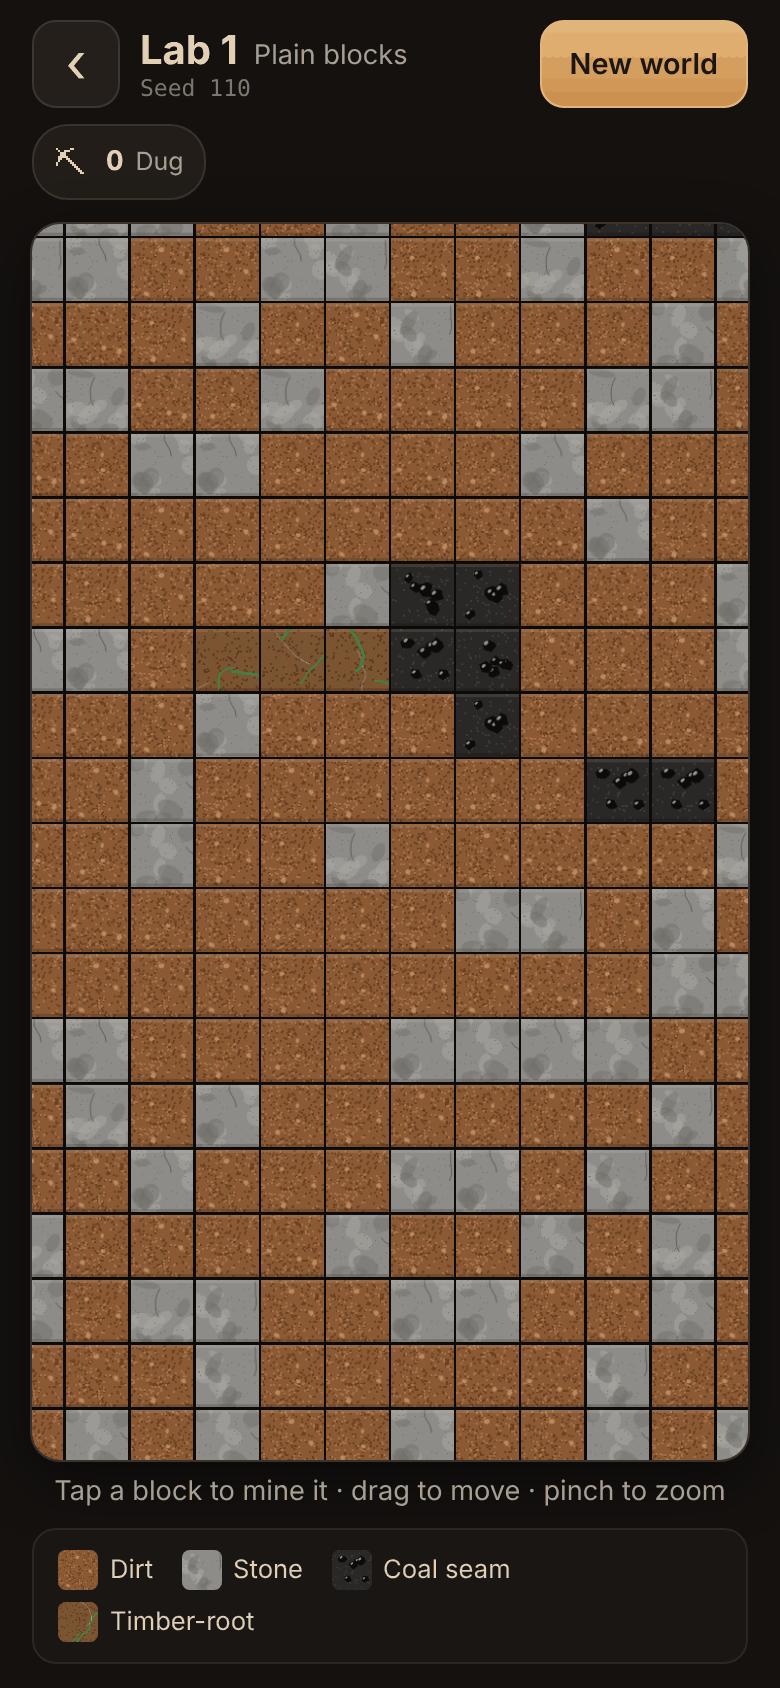
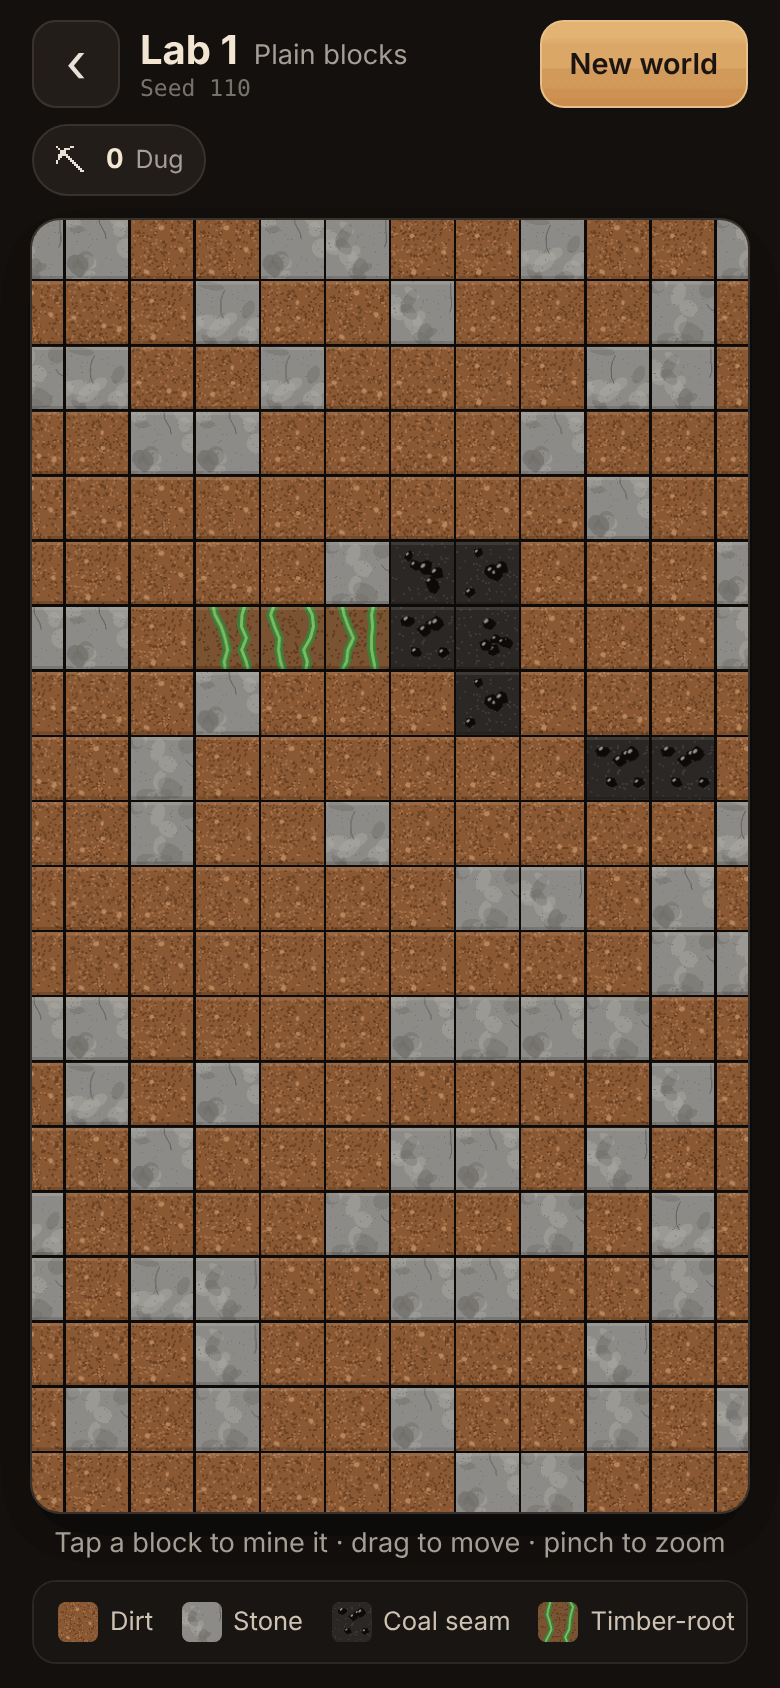
UI lab 1: keep the map still while the counter fills (review of #117)
- The counter and the key are single rows at a fixed height that scroll
  sideways (the counter fades at its right edge); the hint is one line.
  Before, a fourth chip wrapped the counter onto a second line and the map
  moved down by about 1.3 squares, so taps mined the square above.
- e2e: collect every item kind a top block on screen yields and check the
  map's box after every tap and after a refused tap. It fails on the old CSS.
- Textures (optional review notes): thick green roots on timber-root; round
  copper beads with a verdigris ring, unlike iron's angular nuggets.
- Screenshots and decision note 0041 updated.

Claude-Session: https://claude.ai/code/session_013qbeeWVumTvnmhzHykAkyP

diff --git a/src/app/lab/textures.ts b/src/app/lab/textures.ts
@@ -159,6 +159,56 @@ function wander(
   ctx.stroke();
 }
 
+/**
+ * Two thick roots that cross the whole tile from top to bottom, wobbling,
+ * each with a bright core line. Used for timber-root.
+ */
+function roots(ctx: CanvasRenderingContext2D, random: Random, paint: BlockPaint): void {
+  const s = LAB_LOOK.texturePx;
+  for (let r = 0; r < 2; r += 1) {
+    // Points down the tile, each nudged sideways a little.
+    const points: { x: number; y: number }[] = [];
+    let x = s * (0.25 + 0.5 * r) + (random() - 0.5) * 10;
+    for (let y = -4; y <= s + 4; y += 12) {
+      points.push({ x, y });
+      x += (random() - 0.5) * 14;
+    }
+    ctx.lineCap = 'round';
+    ctx.lineJoin = 'round';
+    for (const [colour, width] of [
+      [paint.accent, 9],
+      [paint.accentLight, 3],
+    ] as const) {
+      ctx.strokeStyle = colour;
+      ctx.lineWidth = width;
+      ctx.beginPath();
+      points.forEach((p, i) => (i === 0 ? ctx.moveTo(p.x, p.y) : ctx.lineTo(p.x, p.y)));
+      ctx.stroke();
+    }
+  }
+}
+
+/** Round copper beads, each with a verdigris ring and a bright spot. Used for copper ore. */
+function beads(ctx: CanvasRenderingContext2D, random: Random, paint: BlockPaint): void {
+  const s = LAB_LOOK.texturePx;
+  for (let i = 0; i < 4; i += 1) {
+    const radius = between(random, 5, 7);
+    const cx = between(random, radius + 5, s - radius - 5);
+    const cy = between(random, radius + 5, s - radius - 5);
+    ctx.beginPath();
+    ctx.arc(cx, cy, radius, 0, Math.PI * 2);
+    ctx.fillStyle = paint.accent;
+    ctx.fill();
+    ctx.lineWidth = 2;
+    ctx.strokeStyle = paint.accentLight;
+    ctx.stroke();
+    ctx.fillStyle = 'rgba(255, 240, 200, 0.7)';
+    ctx.beginPath();
+    ctx.arc(cx - radius * 0.35, cy - radius * 0.35, radius * 0.28, 0, Math.PI * 2);
+    ctx.fill();
+  }
+}
+
 /** A crystal shard: a long thin diamond pointing up and to one side, with a white sparkle. */
 function shard(ctx: CanvasRenderingContext2D, random: Random, paint: BlockPaint): void {
   const s = LAB_LOOK.texturePx;
@@ -232,14 +282,17 @@ function paintTile(ctx: CanvasRenderingContext2D, id: BlockId, random: Random): 
       nuggets(ctx, random, 6, 7, paint.accent, paint.accentLight);
       break;
     case 'timberRoot':
-      // Earth threaded with green roots.
+      // Earth crossed by thick green roots, bold enough to tell from dirt when zoomed out.
       grain(ctx, random, paint.dark, 110, 2);
-      wander(ctx, random, paint.accent, 3, 12);
-      wander(ctx, random, paint.accent, 2, 10);
-      wander(ctx, random, paint.accentLight, 1, 8);
+      roots(ctx, random, paint);
+      break;
+    case 'copperOre':
+      // Copper: round beads with a verdigris ring, unlike iron's angular nuggets.
+      blotches(ctx, random, paint.light, 5, 0.45);
+      grain(ctx, random, paint.dark, 40, 1);
+      beads(ctx, random, paint);
       break;
     case 'ironOre':
-    case 'copperOre':
     case 'unstableOre':
     case 'relic':
       // Ore: stone with bright nuggets of the ore's colour.

diff --git a/tests/e2e/lab.spec.ts b/tests/e2e/lab.spec.ts
@@ -5,6 +5,8 @@
 // (`labTap`): the engine is deterministic, so the cube is the same.
 import { expect, test } from '@playwright/test';
 import type { Locator, Page } from '@playwright/test';
+import { BLOCKS, blockDefByCode } from '../../src/data';
+import { topBlockAt } from '../../src/engine';
 import { labTap, newLabWorld } from '../../src/app/lab/labWorld';
 import type { LabWorld } from '../../src/app/lab/labWorld';
 
@@ -163,4 +165,46 @@ test('shadows fall on the edges that face a higher square', async ({ page }) => 
   // The shaded edge is clearly darker than the open one, in both squares.
   expect(aWest).toBeLessThan(aEast * 0.85);
   expect(bEast).toBeLessThan(bWest * 0.85);
+});
+
+test('the map never moves while the counter fills up', async ({ page }) => {
+  // Review of PR #117: when the counter wrapped onto a second line the map
+  // moved down, so a tap aimed at one square mined the one above it.
+  const { canvas } = await openLab(page);
+  const cam = await camera(canvas);
+  const world = newLabWorld(SEED);
+
+  // On screen, one untouched square for each kind of item a top block yields
+  // (stone, coal, timber, ...), found with the engine.
+  const firstOfItem = new Map<string, { x: number; y: number }>();
+  for (let y = Math.ceil(cam.y); y < Math.floor(cam.y) + 10; y += 1) {
+    for (let x = Math.ceil(cam.x); x < Math.floor(cam.x) + 10; x += 1) {
+      const block = blockDefByCode(topBlockAt(world.state, x, y));
+      const item = block.yields[0]?.item;
+      if (item !== undefined && !firstOfItem.has(item) && labTap(world, x, y).result.mined) {
+        firstOfItem.set(item, { x, y });
+      }
+    }
+  }
+  // With "Dug", at least four chips: the number that used to wrap at 390 px.
+  expect(firstOfItem.size).toBeGreaterThanOrEqual(3);
+  expect(BLOCKS.dirt.yields).toEqual([]);
+
+  const before = await canvas.boundingBox();
+  const counterBefore = await page.getByTestId('lab-counter').boundingBox();
+  for (const [item, square] of firstOfItem) {
+    await tapSquare(page, canvas, square.x, square.y);
+    await expect(page.getByTestId(`lab-res-${item}`)).toBeVisible();
+    expect(await canvas.boundingBox()).toEqual(before);
+  }
+  expect(await page.getByTestId('lab-counter').boundingBox()).toEqual(counterBefore);
+
+  // A refused tap writes a longer hint; that must not move the map either.
+  const [first] = firstOfItem.values();
+  if (first !== undefined) {
+    await tapSquare(page, canvas, first.x, first.y);
+    await expect(canvas).toHaveAttribute('data-last-tap', `refused ${first.x},${first.y}`);
+  }
+  await page.waitForTimeout(400); // let the shake finish
+  expect(await canvas.boundingBox()).toEqual(before);
 });

diff --git a/src/app/lab/lab.css b/src/app/lab/lab.css
@@ -178,16 +178,31 @@ body[data-screen='lab1'] {
 }
 
 /* The resource counter: a row of chips that wraps. */
+/* One row that scrolls sideways, at a fixed height: the map under it must
+   never move while the player is tapping (review of PR #117). */
 .lab-counter {
   flex: 0 0 auto;
   display: flex;
-  flex-wrap: wrap;
+  flex-wrap: nowrap;
   gap: 6px;
-  min-height: 40px;
+  height: 38px;
   margin: 0 0 10px;
+  overflow-x: auto;
+  overflow-y: hidden;
+  scrollbar-width: none;
+  /* The right edge fades out, a hint that more chips are a swipe away. */
+  mask-image: linear-gradient(to right, #000 calc(100% - 28px), transparent);
+  -webkit-mask-image: linear-gradient(to right, #000 calc(100% - 28px), transparent);
+  padding-right: 24px;
+}
+
+.lab-counter::-webkit-scrollbar {
+  display: none;
 }
 
 .lab-chip {
+  flex: 0 0 auto;
+  box-sizing: border-box;
   display: inline-flex;
   align-items: center;
   gap: 6px;
@@ -274,8 +289,14 @@ body[data-screen='lab1'] {
 }
 
 .lab-hint {
+  flex: 0 0 auto;
   margin: 8px 2px 8px;
-  min-height: 1.3em;
+  /* One line at a fixed height, so a longer message never resizes the map. */
+  height: 1.3em;
+  line-height: 1.3em;
+  white-space: nowrap;
+  overflow: hidden;
+  text-overflow: ellipsis;
   font-size: 0.85rem;
   color: #a89f92;
   text-align: center;
@@ -286,18 +307,30 @@ body[data-screen='lab1'] {
 }
 
 /* The key: which block is which. */
+/* The key is one row that scrolls sideways too: as kinds appear it must not
+   grow and shrink the map above it. */
 .lab-key {
   flex: 0 0 auto;
   display: flex;
-  flex-wrap: wrap;
-  gap: 6px 14px;
+  flex-wrap: nowrap;
+  gap: 14px;
+  height: 20px;
   padding: 10px 12px;
+  overflow-x: auto;
+  overflow-y: hidden;
+  scrollbar-width: none;
   border-radius: 12px;
   background: #1a1613;
   border: 1px solid #2e2722;
 }
 
+.lab-key::-webkit-scrollbar {
+  display: none;
+}
+
 .lab-key-entry {
+  flex: 0 0 auto;
+  white-space: nowrap;
   display: inline-flex;
   align-items: center;
   gap: 6px;

diff --git a/docs/decisions/0041-ui-lab-1.md b/docs/decisions/0041-ui-lab-1.md
@@ -15,3 +15,4 @@ Date: 2026-11-21. Status: implemented (issue #116). No game rule, data number or
 - **The lab map fills the screen** under the counter, so it is taller than wide; it has its own small camera (`labCamera.ts`) rather than the game's square one. Drag, pinch and the wheel work as on the game's map.
 - **Look numbers** (texture size, shadow width and strength, cue timings) are presentation, not gameplay, so they live in `src/app/lab/labLook.ts`, as the game map's look lives in `src/app/map/palette.ts`.
 - **The e2e tests now open the game at `/#game`**, since `/` is the start screen.
+- **The map never moves while you play** (review of PR #117). The counter, the hint line and the key each keep a fixed height: the counter and the key are single rows that scroll sideways, and the hint is one line. Otherwise a fourth resource chip wrapped onto a second line, the map moved down by more than a square, and taps mined the square above the one aimed at. An e2e test checks the map's box after every tap.
